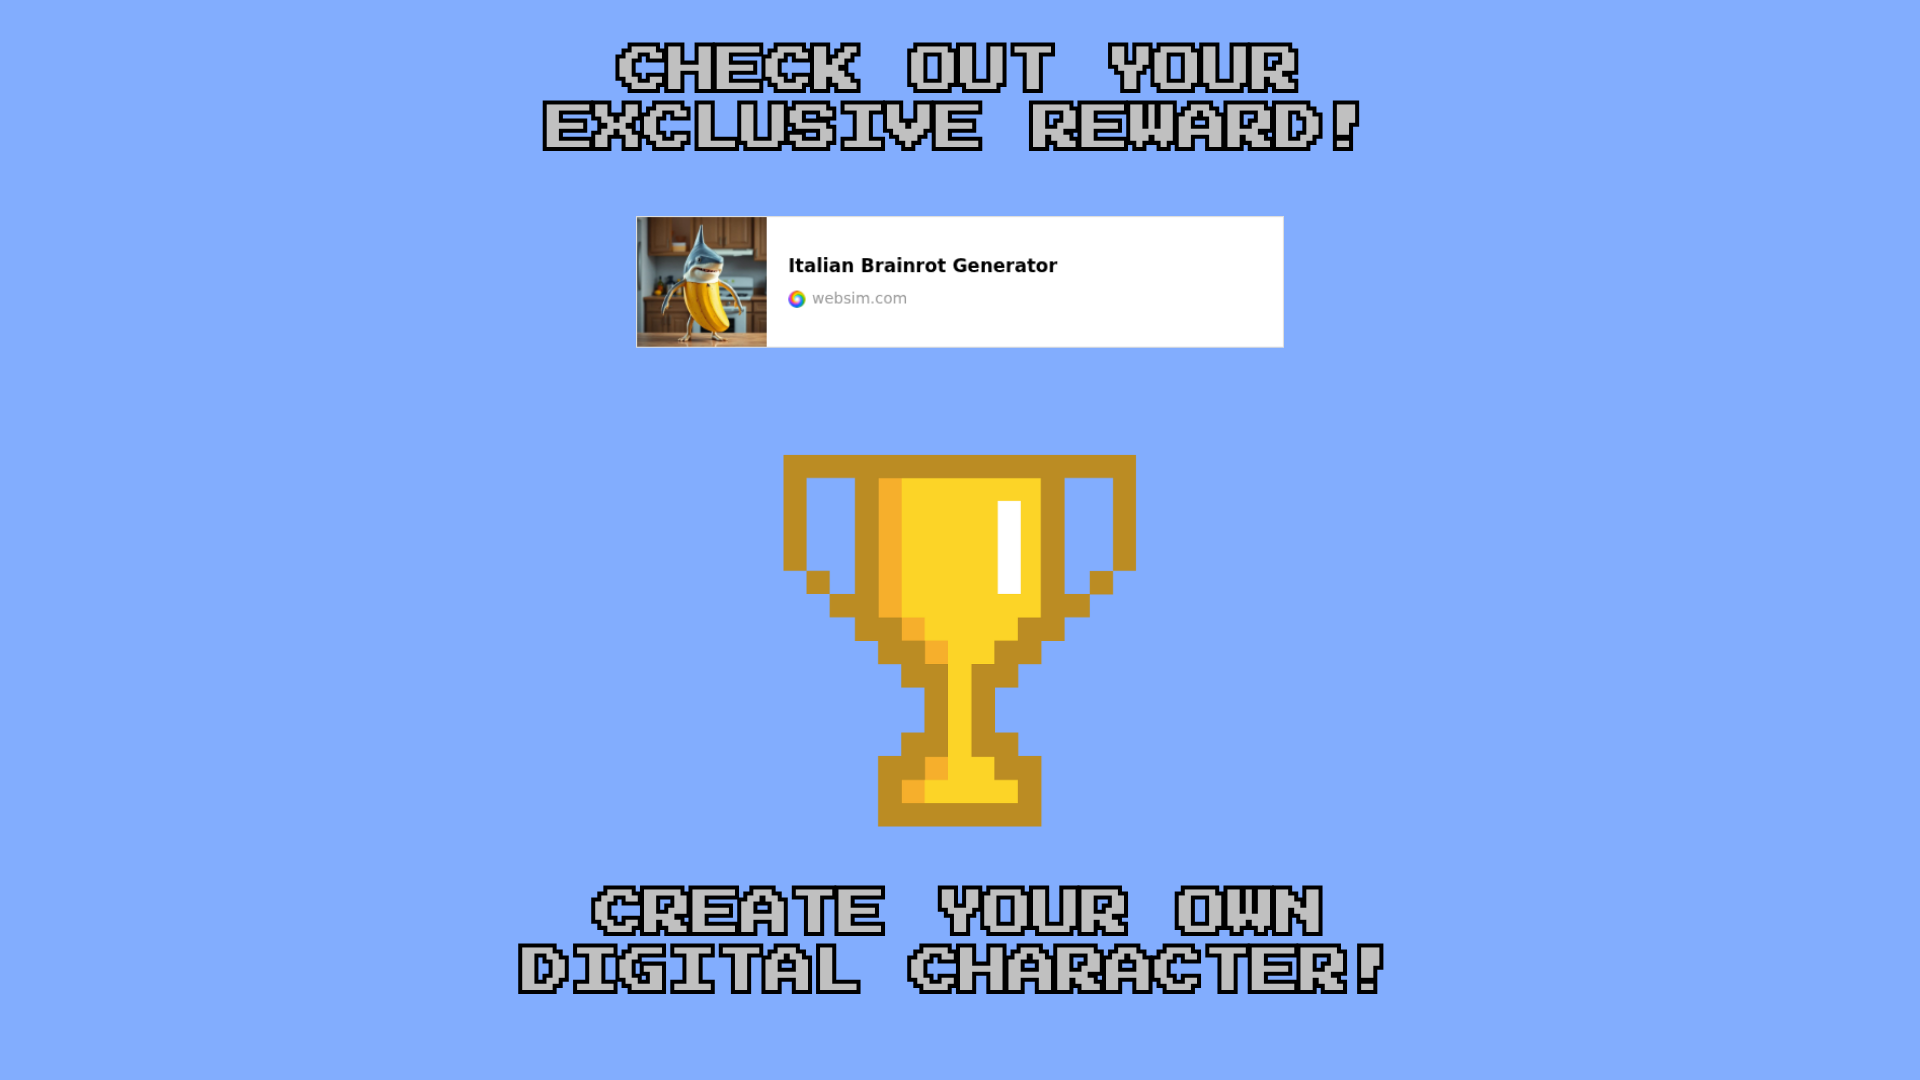
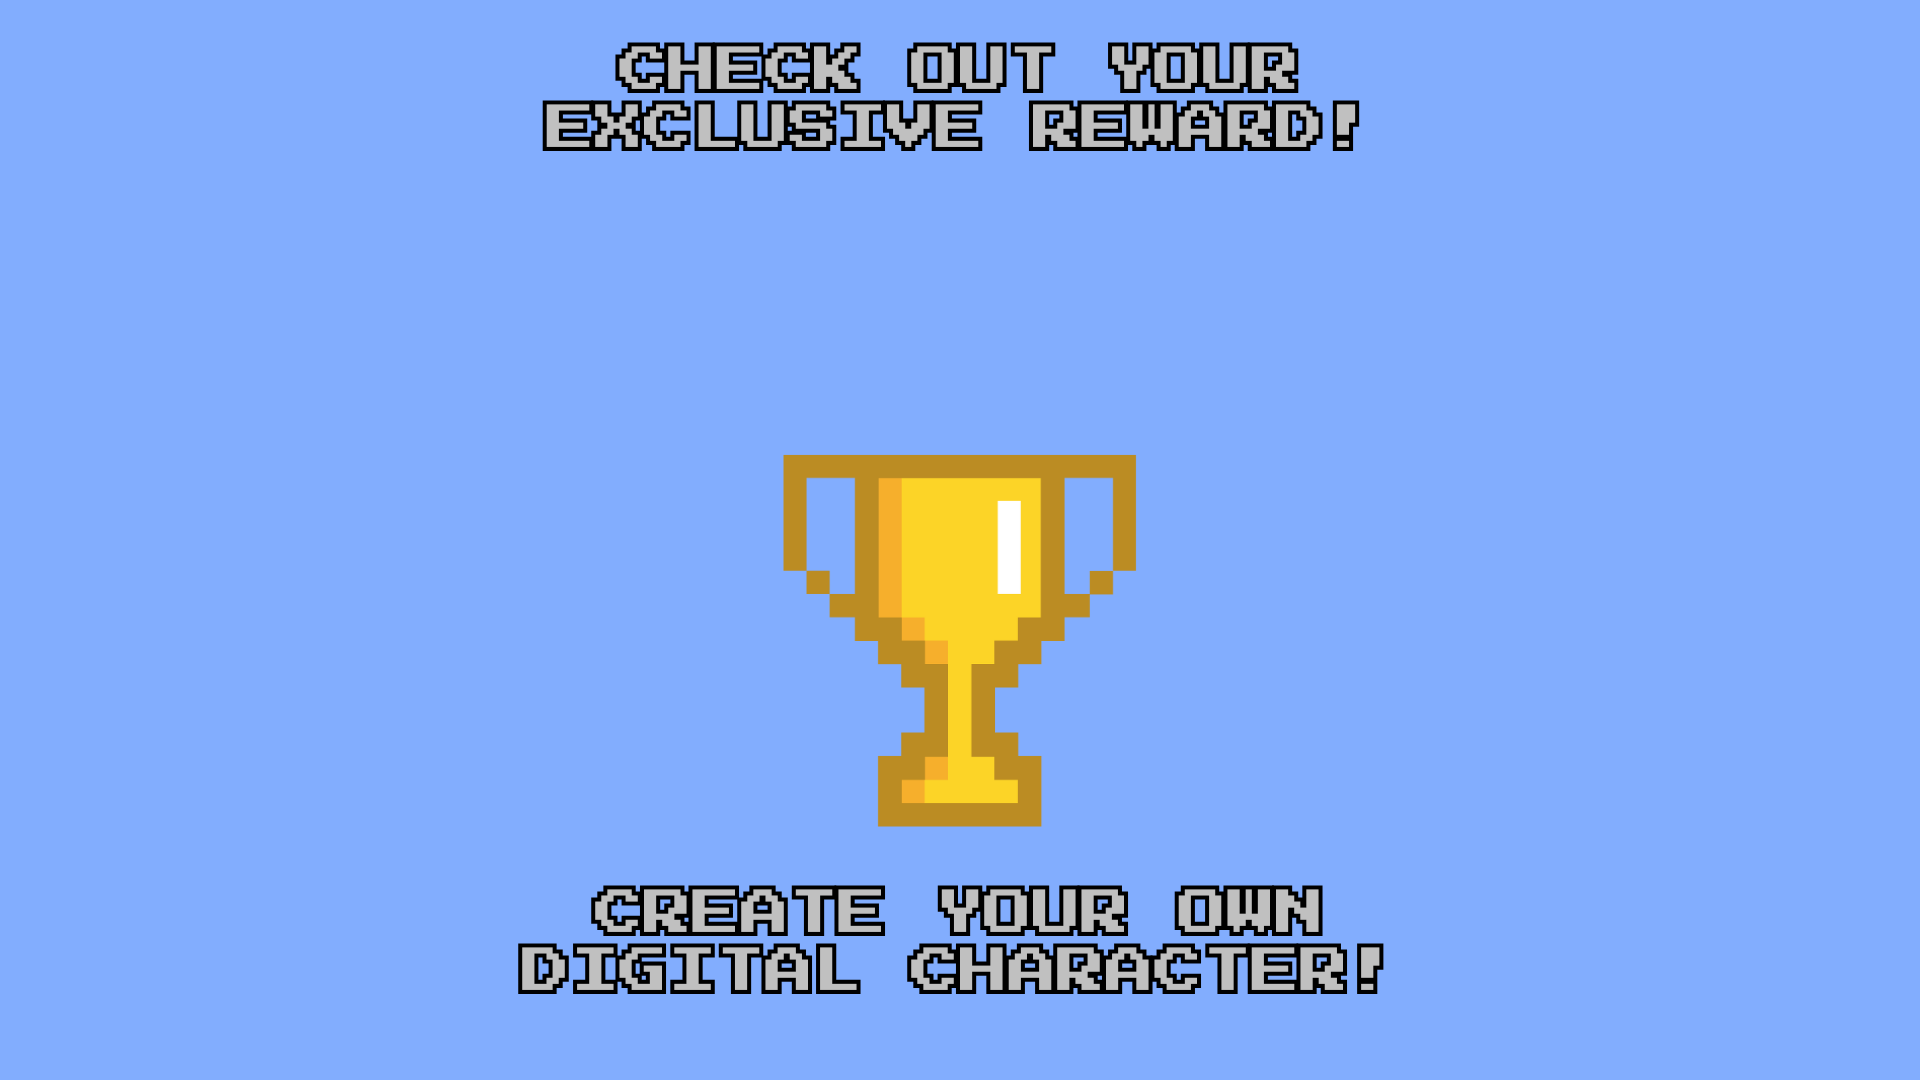
Finished rough outline

Changed region(s): [[0.3125, 0.1833, 0.6875, 0.3361]]

diff --git a/page9.html b/page9.html
@@ -23,7 +23,7 @@
             position: relative;
             width: 100vw;
             height: 100vh;
-            background-image: url('lib/8.png');
+            background-image: url('lib/9.png');
             background-size: cover;
             background-repeat: no-repeat;
             background-position: center center;
@@ -31,15 +31,15 @@
         }
         .scaling-btn {
             position: absolute;
-            width: 9vw;
-            height: 9vw;
+            width: 34vw;
+            height: 7vw;
             display: block;
         }
     </style>
 </head>
 <body>
     <div class="bg-container">
-        <a href="/page10?button=9a" style="display:block;">
-            <img src="lib/9_button_9a.jpg" alt="9A" class="scaling-btn" style="cursor:pointer; left:50%; top:60%;" />
+        <a href="https://websim.com/@maxbittker/italian-brainrot-generator" target="_blank" rel="noopener noreferrer" style="display:block;">
+            <img src="lib/brainrot.png" alt="BRAINROT" class="scaling-btn" style="cursor:pointer; left:33.5%; top:19%;" />
         </a>
     </div>
